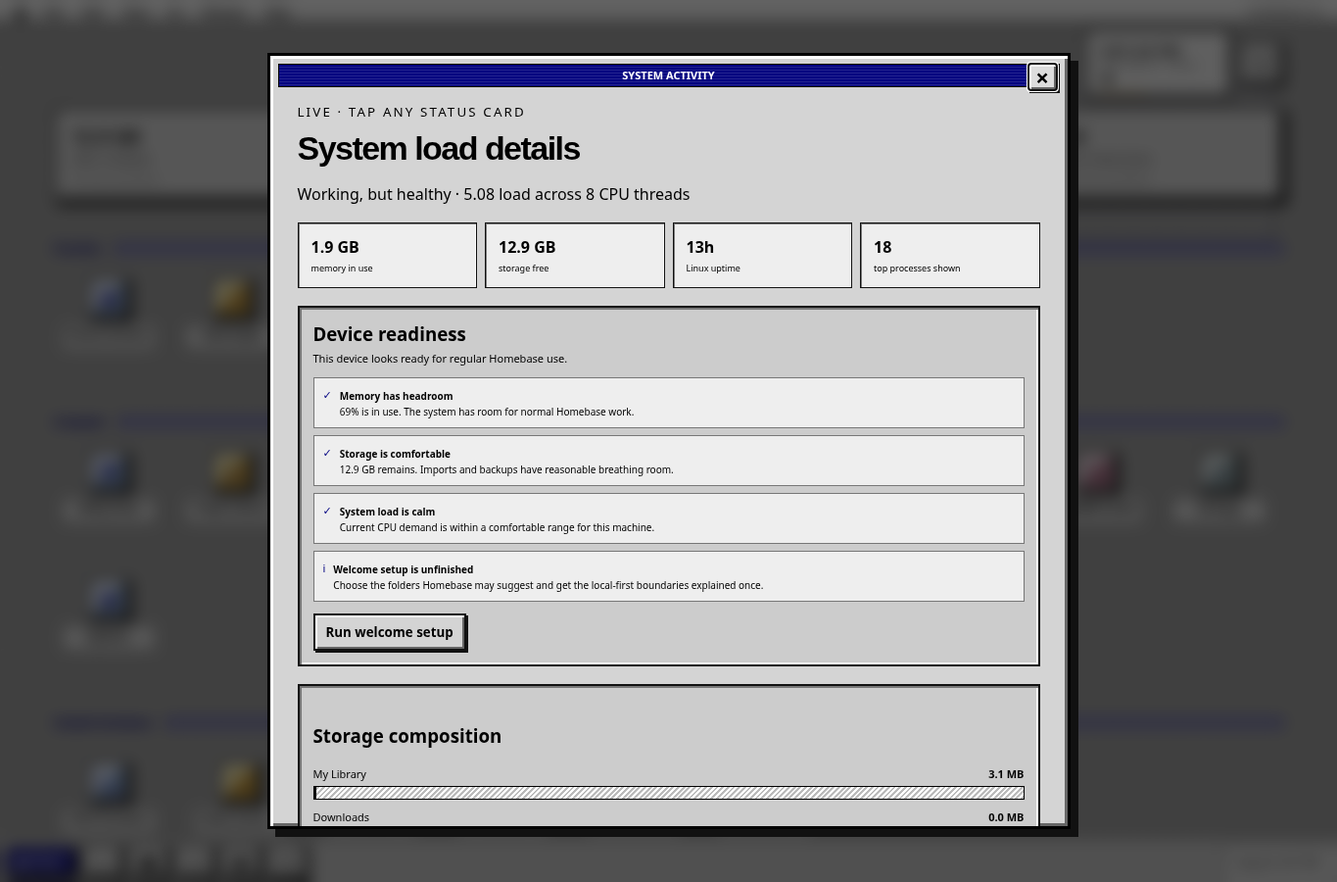
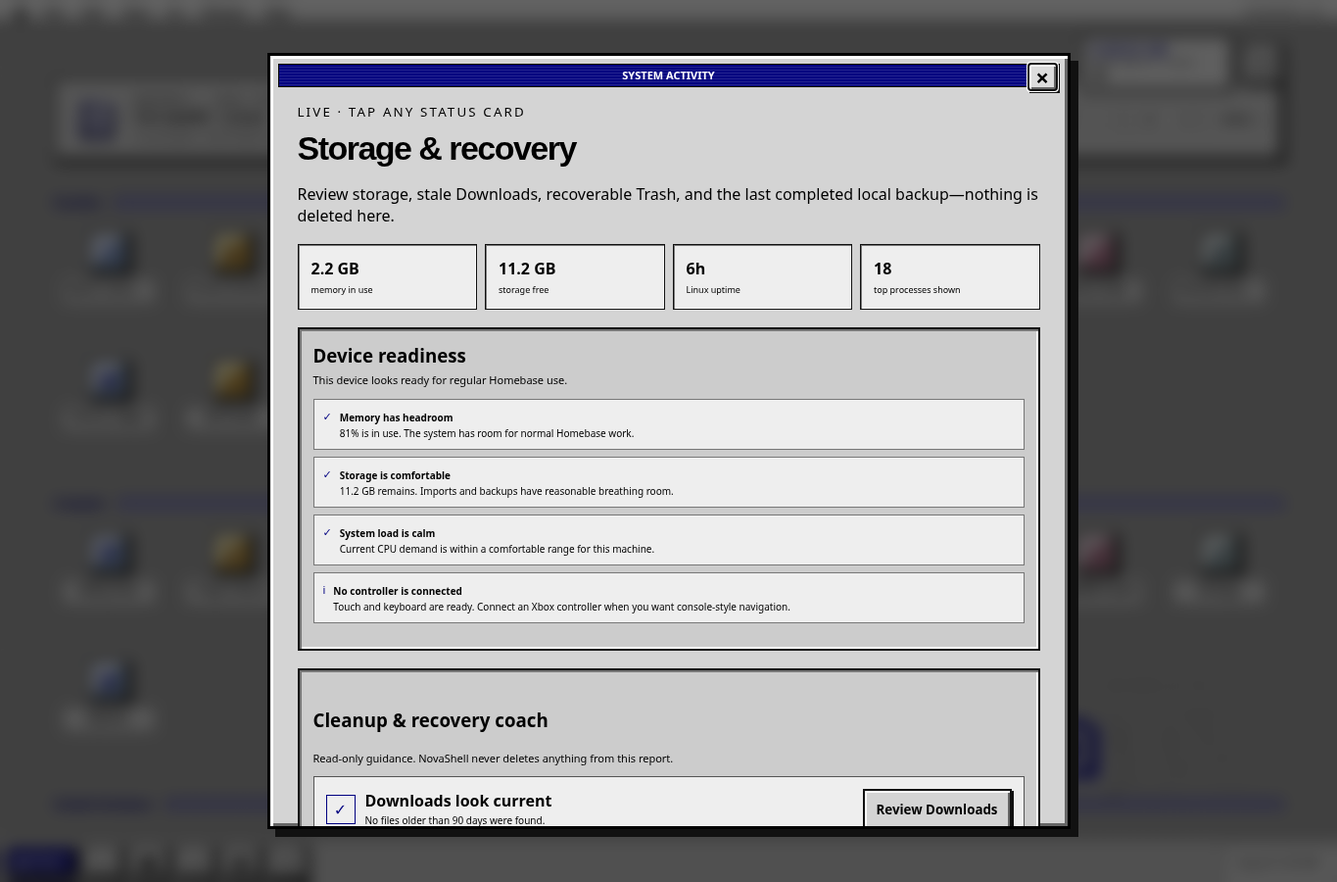
feat: ship recovery coach stable build

diff --git a/assets/scripts/homebase/system-insights.js b/assets/scripts/homebase/system-insights.js
@@ -1,4 +1,5 @@
 addEventListener('DOMContentLoaded', () => {
+  document.head.insertAdjacentHTML('beforeend', '<link rel="stylesheet" href="/assets/styles/homebase/system-recovery.css">');
   document.head.insertAdjacentHTML('beforeend', '<style>.status{grid-template-columns:repeat(5,minmax(0,1fr))!important}@media(max-width:820px){.status{grid-template-columns:repeat(3,minmax(0,1fr))!important}}@media(max-width:600px){.status{grid-template-columns:repeat(2,minmax(0,1fr))!important}}</style>');
   document.head.insertAdjacentHTML('beforeend', '<style>.metric:after{content:"TAP FOR LIVE DETAILS";display:block;margin-top:9px;color:rgb(var(--signal-alt-rgb));font-size:7px;letter-spacing:.12em}.live-facts{display:grid;grid-template-columns:repeat(4,1fr);gap:8px;margin:18px 0}.live-facts div{padding:13px;border:1px solid #ffffff18;border-radius:12px;background:#ffffff08}.live-facts b,.live-facts span{display:block}.live-facts span{margin-top:4px;color:#a8a8a8;font-size:9px}.readiness{padding:14px;margin:18px 0;border:1px solid #ffffff28;border-radius:13px;background:#0d1519}.readiness h3{margin:0 0 5px}.readiness>p{margin:0;color:#c6d4d9;font-size:11px}.readiness-list{display:grid;gap:7px;margin:12px 0}.readiness-list div{display:grid;grid-template-columns:auto 1fr;gap:8px;align-items:start;padding:9px;border:1px solid #ffffff18;border-radius:9px;background:#ffffff08;font-size:11px}.readiness-list i{font-style:normal;color:rgb(var(--signal-alt-rgb))}.readiness-list b,.readiness-list span{display:block}.readiness-list span{margin-top:2px;color:#a8a8a8;font-size:10px}.readiness-actions{display:flex;gap:7px;flex-wrap:wrap}.readiness-actions button{min-height:38px;padding:0 11px}.insight-list small{color:#777;font-size:8px}.explain{font-size:11px}html[data-theme="ultra-retro"] .readiness{border:2px inset #eee;border-radius:0;background:#fff;color:#111}html[data-theme="ultra-retro"] .readiness>p,html[data-theme="ultra-retro"] .readiness-list span{color:#111}html[data-theme="ultra-retro"] .readiness-list div{border:1px solid #777;border-radius:0;background:#eee}html[data-theme="ultra-retro"] .readiness-list i{color:#000080}@media(max-width:650px){.live-facts{grid-template-columns:1fr 1fr}}</style>');
   const status = document.querySelector('.status');
@@ -14,7 +15,7 @@ addEventListener('DOMContentLoaded', () => {
   const cards = [...document.querySelectorAll('.metric')];
   const dialog = document.createElement('dialog');
   dialog.className = 'insight-dialog';
-  dialog.innerHTML = '<button class="insight-x">×</button><small>LIVE · TAP ANY STATUS CARD</small><h2>System activity</h2><p id="insight-rating">Reading this Chromebook…</p><div id="live-facts" class="live-facts"></div><section id="readiness" class="readiness"><h3>Device readiness</h3><p>Turning local measurements into safe, useful next steps…</p></section><section><h3>Storage composition</h3><div id="composition" class="composition"></div></section><section><h3>Real running processes</h3><p class="explain">Sorted by CPU use. Read-only for touch safety.</p><div id="processes" class="insight-list skeleton-list"></div></section><section><h3>Largest personal files</h3><div id="largest" class="insight-list skeleton-list"></div></section>';
+  dialog.innerHTML = '<button class="insight-x">×</button><small>LIVE · TAP ANY STATUS CARD</small><h2>System activity</h2><p id="insight-rating">Reading this Chromebook…</p><div id="live-facts" class="live-facts"></div><section id="readiness" class="readiness"><h3>Device readiness</h3><p>Turning local measurements into safe, useful next steps…</p></section><section id="recovery" class="recovery-coach"><h3>Cleanup &amp; recovery coach</h3><p>Read-only guidance. NovaShell never deletes anything from this report.</p><div class="recovery-grid"></div></section><section id="storage-composition"><h3>Storage composition</h3><div id="composition" class="composition"></div></section><section id="running-processes"><h3>Real running processes</h3><p class="explain">Sorted by CPU use. Read-only for touch safety.</p><div id="processes" class="insight-list skeleton-list"></div></section><section id="largest-files"><h3>Largest personal files</h3><div id="largest" class="insight-list skeleton-list"></div></section>';
   document.body.appendChild(dialog);
   dialog.querySelector('.insight-x').onclick = () => dialog.close();
   dialog.addEventListener('click', event => {
@@ -54,12 +55,22 @@ addEventListener('DOMContentLoaded', () => {
     card.querySelector('.system-terminal-copy em').textContent=(setup.controllers||0)+' controller'+(setup.controllers===1?'':'s')+' · '+(setup.configured?'scan folders configured':'welcome setup still needs a folder choice')+' · live local readings';
     const stats=card.querySelectorAll('.system-terminal-stats i');stats[0].textContent='MEM '+used+'%';stats[1].textContent='DISK '+free+'G';stats[2].textContent='LOAD '+load.toFixed(2)+'/'+cpus;
   }
+  function paintRecovery(data) {
+    const recovery=data.recovery||{},stale=recovery.stale_downloads||{},trash=recovery.trash||{},backup=recovery.backup||{},grid=dialog.querySelector('.recovery-grid');
+    const last=backup.last_export?new Date(backup.last_export*1000):null,days=last?Math.floor((Date.now()-last.getTime())/86400000):null;
+    const cards=[
+      {mark:stale.count?'!':'✓',title:stale.count?stale.count+' older download'+(stale.count===1?'':'s'):'Downloads look current',detail:stale.count?human(stale.bytes)+' has not changed in '+stale.age_days+'+ days. Review it before removing anything.':'No files older than '+(stale.age_days||90)+' days were found.',label:'Review Downloads',url:'/pages/files.html?path=Downloads'},
+      {mark:trash.count?'↶':'✓',title:trash.count?trash.count+' recoverable Trash item'+(trash.count===1?'':'s'):'Trash is empty',detail:trash.count?human(trash.bytes)+' remains recoverable. Review it in Library; this coach never empties Trash.':'There is nothing waiting in the local Trash folder.',label:'Review Trash',url:'/pages/files.html?path=.local%2Fshare%2FTrash%2Ffiles'},
+      {mark:last&&days<30?'✓':'!',title:last?'Last backup '+(days===0?'today':days+'d ago'):'No NovaShell backup recorded',detail:last?human(backup.bytes)+' · '+(backup.areas.length?backup.areas.join(', '):'preferences only')+'. This records a completed local download, not an upload.':'Export selected data to create a portable local archive. Credentials remain excluded.',label:'Backup settings',url:'/pages/settings.html?panel=backup'}
+    ];
+    grid.replaceChildren(...cards.map(item=>{const card=document.createElement('article'),mark=document.createElement('i'),copy=document.createElement('span'),title=document.createElement('b'),detail=document.createElement('span'),button=document.createElement('button');mark.textContent=item.mark;title.textContent=item.title;detail.textContent=item.detail;button.type='button';button.textContent=item.label;button.onclick=()=>go(item.url);copy.append(title,detail);card.append(mark,copy,button);return card}));
+  }
   async function refresh() {
     const [data, setup] = await Promise.all([fetch('/api/insights', {cache: 'no-store'}).then(r => r.json()), fetch('/api/setup/status', {cache: 'no-store'}).then(r => r.ok ? r.json() : ({})).catch(() => ({}))]);
     const uptimeCard=document.querySelector('#uptime-metric b'),processCard=document.querySelector('#process-metric b');if(uptimeCard)uptimeCard.textContent=duration(data.uptime_seconds);if(processCard)processCard.textContent=data.processes.length;
     const load = data.load[0];
     const rating = load < data.cpu_count * .55 ? 'Running comfortably' : load < data.cpu_count ? 'Working, but healthy' : 'Under heavy load';
-    const view=Number(dialog.dataset.view||2);dialog.querySelector('#insight-rating').textContent = view===0?'Storage is split by Homebase areas; large-file details are shown below.':view===1?'Memory usage is live; this view focuses on the processes using resources.':rating + ' · ' + load.toFixed(2) + ' load across ' + data.cpu_count + ' CPU threads';
+    const view=Number(dialog.dataset.view||2);dialog.querySelector('#insight-rating').textContent = view===0?'Review storage, stale Downloads, recoverable Trash, and the last completed local backup—nothing is deleted here.':view===1?'Memory usage is live; this view focuses on the processes using resources.':rating + ' · ' + load.toFixed(2) + ' load across ' + data.cpu_count + ' CPU threads';
     const usedMemory = data.memory.MemTotal - data.memory.MemAvailable;
     dialog.querySelector('#live-facts').innerHTML = '<div><b>' + human(usedMemory) + '</b><span>memory in use</span></div><div><b>' + human(data.disk.free) + '</b><span>storage free</span></div><div><b>' + duration(data.uptime_seconds) + '</b><span>Linux uptime</span></div><div><b>' + data.processes.length + '</b><span>top processes shown</span></div>';
     const total = Object.values(data.composition).reduce((a,b) => a + b, 0) || 1;
@@ -71,9 +82,10 @@ addEventListener('DOMContentLoaded', () => {
     largest.classList.remove('skeleton-list');
     largest.innerHTML = data.largest.map(file => '<div><b>' + file.name + '</b><span>' + file.path + ' · ' + human(file.bytes) + '</span></div>').join('') || '<p>No personal files yet.</p>';
     paintReadiness(data, setup);
+    paintRecovery(data);
     paintSystemCard(data, setup);
   }
-  async function open(index = 2) { const views=[['Storage details','Storage composition and the largest files taking space on this device.'],['Memory details','Live memory pressure and the processes using the most resources.'],['System load details','Live CPU load, uptime, and the busiest current processes.']];const view=views[index]||views[2];dialog.querySelector('h2').textContent=view[0];dialog.querySelector('#insight-rating').textContent=view[1];dialog.dataset.view=index;dialog.showModal();await refresh();const sections=[...dialog.querySelectorAll('section')];sections[0].hidden=index===1;sections[1].hidden=index===0;sections[2].hidden=index!==0; }
+  async function open(index = 2) { const views=[['Storage & recovery','Storage composition, larger files, recoverable Trash, stale Downloads, and backup status.'],['Memory details','Live memory pressure and the processes using the most resources.'],['System load details','Live CPU load, uptime, and the busiest current processes.']];const view=views[index]||views[2];dialog.querySelector('h2').textContent=view[0];dialog.querySelector('#insight-rating').textContent=view[1];dialog.dataset.view=index;dialog.showModal();await refresh();const storage=index===0,memory=index===1;dialog.querySelector('#readiness').hidden=memory;dialog.querySelector('#recovery').hidden=!storage;dialog.querySelector('#storage-composition').hidden=!storage;dialog.querySelector('#running-processes').hidden=storage;dialog.querySelector('#largest-files').hidden=!storage; }
   cards.forEach(card => {
     card.tabIndex = 0;
     card.setAttribute('role', 'button');
@@ -82,5 +94,7 @@ addEventListener('DOMContentLoaded', () => {
     card.onkeydown = event => (event.key === 'Enter' || event.key === ' ') && open(index);
   });
   refresh().catch(()=>{});
-  if (new URLSearchParams(location.search).get('capture') === 'system') setTimeout(() => open(2), 180);
+  const captureView=new URLSearchParams(location.search).get('capture');
+  if (captureView === 'system') setTimeout(() => open(2), 180);
+  if (captureView === 'recovery') setTimeout(() => open(0), 180);
 });

diff --git a/sw.js b/sw.js
@@ -1,4 +1,4 @@
-const CACHE='homebase-v144';
+const CACHE='homebase-v145';
 const SHELL=[
   '/', '/index.html', '/offline.html', '/manifest.webmanifest', '/assets/icons/homebase-icon.svg', '/user-apps/wellness/reset-station/index.html', '/user-apps/wellness/reset-station/app.json', '/user-apps/wellness/reset-station/app.css', '/user-apps/wellness/reset-station/app.js',
   '/pages/arcade.html', '/pages/discover.html', '/pages/files.html', '/pages/apps.html', '/pages/source-connection.html',
@@ -7,7 +7,7 @@ const SHELL=[
   '/assets/styles/homebase/visual-deck.css', '/assets/styles/homebase/shell.css', '/assets/styles/homebase/first-run.css', '/assets/styles/homebase/first-run-shortcuts.css', '/assets/styles/homebase/command-palette.css',
   '/assets/styles/homebase/tiles.css', '/assets/styles/homebase/clock.css',
   '/assets/styles/homebase/gestures.css', '/assets/styles/homebase/indicators.css',
-  '/assets/styles/homebase/system-insights.css', '/assets/styles/homebase/neofetch-ambient.css','/assets/styles/homebase/neofetch-cobalt.css','/assets/styles/homebase/neofetch-retro-readout.css','/assets/styles/homebase/relay-live-build.css','/assets/styles/homebase/project-board-interaction.css','/assets/styles/homebase/relay-free-routes.css','/assets/styles/homebase/window-layering.css','/assets/styles/homebase/about-overview.css','/modules/radio-orbit/theme-inherit-surfaces.css','/assets/styles/shared/retro-window-standard.css', '/assets/styles/homebase/scroll-motion.css',
+  '/assets/styles/homebase/system-insights.css', '/assets/styles/homebase/system-recovery.css', '/assets/styles/homebase/neofetch-ambient.css','/assets/styles/homebase/neofetch-cobalt.css','/assets/styles/homebase/neofetch-retro-readout.css','/assets/styles/homebase/relay-live-build.css','/assets/styles/homebase/project-board-interaction.css','/assets/styles/homebase/relay-free-routes.css','/assets/styles/homebase/window-layering.css','/assets/styles/homebase/about-overview.css','/modules/radio-orbit/theme-inherit-surfaces.css','/assets/styles/shared/retro-window-standard.css', '/assets/styles/homebase/scroll-motion.css',
   '/assets/styles/homebase/themes.css', '/assets/styles/homebase/liquid-modern.css', '/assets/styles/homebase/mini-player.css',
   '/assets/styles/homebase/tile-layout.css', '/assets/styles/homebase/glass.css',
   '/assets/styles/homebase/header-actions.css', '/assets/styles/homebase/orbit-performance.css',

diff --git a/assets/styles/homebase/system-recovery.css b/assets/styles/homebase/system-recovery.css
@@ -1,0 +1,13 @@
+.recovery-coach > p { color: #b9c4c9; font-size: 11px; }
+.recovery-grid { display: grid; gap: 8px; }
+.recovery-grid article { display: grid; grid-template-columns: auto minmax(0, 1fr) auto; gap: 10px; align-items: center; padding: 12px; border: 1px solid #ffffff1c; border-radius: 11px; background: #ffffff08; }
+.recovery-grid article > i { display: grid; place-items: center; width: 30px; height: 30px; border: 1px solid rgb(var(--signal-alt-rgb)); border-radius: 50%; color: rgb(var(--signal-alt-rgb)); font-style: normal; }
+.recovery-grid article span, .recovery-grid article b { display: block; }
+.recovery-grid article span span { margin-top: 3px; color: #aeb9bd; font-size: 10px; line-height: 1.35; }
+.recovery-grid button { min-height: 42px; padding: 0 12px; cursor: pointer; }
+html[data-theme="ultra-retro"] .recovery-coach { padding: 12px; border: 2px inset #eee; background: #d4d4d4; color: #111; }
+html[data-theme="ultra-retro"] .recovery-coach > p, html[data-theme="ultra-retro"] .recovery-grid article span span { color: #222; }
+html[data-theme="ultra-retro"] .recovery-grid article { border: 1px solid #555; border-radius: 0; background: #eee; }
+html[data-theme="ultra-retro"] .recovery-grid article > i { border: 1px solid #000080; border-radius: 0; color: #000080; }
+html[data-theme="ultra-retro"] .recovery-grid button { border: 2px outset #eee; border-radius: 0; background: #d4d4d4; color: #111; }
+@media (max-width: 650px) { .recovery-grid article { grid-template-columns: auto 1fr; } .recovery-grid button { grid-column: 2; } }

diff --git a/server.py b/server.py
@@ -48,6 +48,7 @@ INSIGHT_CACHE = {"time": 0, "data": None}
 JOBS = {}
 JOBS_LOCK = threading.Lock()
 PROJECT_FEED_FILE = ROOT / "local" / "project-feed.json"
+BACKUP_STATUS_FILE = ROOT / "local" / "backup-status.json"
 PROJECT_FEED_LOCK = threading.RLock()
 RELAY_AGENT_RUNS = {}
 RELAY_AGENT_LOCK = threading.RLock()
@@ -546,6 +547,8 @@ def system_insights():
     groups = {"My Library": HOME_ROOT / "My Library", "Downloads": HOME_ROOT / "Downloads",
               "Games": ROOT / "roms", "Artwork": ROOT / "covers", "Imports": ROOT / "imports"}
     composition, largest = {}, []
+    stale_downloads = {"count": 0, "bytes": 0, "age_days": 90}
+    stale_before = time.time() - stale_downloads["age_days"] * 86400
     for label, folder in groups.items():
         total = 0
         if folder.exists():
@@ -554,10 +557,25 @@ def system_insights():
                 for name in files:
                     path = Path(base) / name
                     try:
-                        amount = path.stat().st_size; total += amount
+                        details = path.stat(); amount = details.st_size; total += amount
                         largest.append({"name": name, "path": str(path.relative_to(HOME_ROOT)), "bytes": amount})
+                        if label == "Downloads" and details.st_mtime < stale_before:
+                            stale_downloads["count"] += 1; stale_downloads["bytes"] += amount
                     except OSError: pass
         composition[label] = total
+    trash = {"count": 0, "bytes": 0}
+    trash_root = HOME_ROOT / ".local" / "share" / "Trash" / "files"
+    if trash_root.exists():
+        for base, dirs, files in os.walk(trash_root):
+            dirs[:] = [name for name in dirs if not name.startswith(".")]
+            for name in files:
+                try: trash["count"] += 1; trash["bytes"] += (Path(base) / name).stat().st_size
+                except OSError: pass
+    backup = {"last_export": None, "areas": [], "bytes": 0}
+    try:
+        saved_backup = json.loads(BACKUP_STATUS_FILE.read_text(encoding="utf-8"))
+        backup.update({"last_export": int(saved_backup.get("last_export")), "areas": [key for key in saved_backup.get("areas", []) if key in BACKUP_AREAS], "bytes": int(saved_backup.get("bytes", 0))})
+    except (OSError, ValueError, TypeError): pass
     output = subprocess.run(
         ["ps", "-eo", "pid=,comm=,%cpu=,%mem=,rss=,etimes=", "--sort=-%cpu"],
         capture_output=True, text=True, timeout=5
@@ -576,7 +594,8 @@ def system_insights():
     data = {"composition": composition, "largest": sorted(largest, key=lambda item:item["bytes"], reverse=True)[:16],
             "processes": processes, "cpu_count": os.cpu_count() or 1, "load": list(os.getloadavg()),
             "memory": memory, "disk": {"total": disk.total, "used": disk.used, "free": disk.free},
-            "uptime_seconds": int(float(Path("/proc/uptime").read_text().split()[0]))}
+            "uptime_seconds": int(float(Path("/proc/uptime").read_text().split()[0])),
+            "recovery": {"stale_downloads": stale_downloads, "trash": trash, "backup": backup}}
     INSIGHT_CACHE.update(time=time.time(), data=data); return data
 
 def safe_home_path(raw=""):
@@ -982,48 +1001,6 @@ class PocketArchiveHandler(SimpleHTTPRequestHandler):
                              for app in installed_apps().values()])
             return
         route = urllib.parse.urlsplit(self.path)
-        if route.path == "/api/backup/export":
-            length=min(int(self.headers.get("Content-Length","0")),5*1024*1024)
-            try: payload=json.loads(self.rfile.read(length) or b"{}")
-            except ValueError: self._json(400,{"error":"invalid settings"});return
-            selected=[key for key in payload.get("areas",[]) if key in BACKUP_AREAS];memory=io.BytesIO()
-            with zipfile.ZipFile(memory,"w",zipfile.ZIP_DEFLATED,compresslevel=5) as archive:
-                archive.writestr("homebase-backup.json",json.dumps({"format":1,"created":int(time.time()),"areas":selected,"preferences":payload.get("preferences",{}),"installed_apps":[{"id":app["id"],"name":app["name"]} for app in installed_apps().values()]},indent=2))
-                for key in selected:
-                    folder=BACKUP_AREAS[key]
-                    if folder.exists():
-                        for path in folder.rglob("*"):
-                            if path.is_file(): archive.write(path,"data/"+key+"/"+str(path.relative_to(folder)))
-            body=memory.getvalue();self.send_response(200);self.send_header("Content-Type","application/zip");self.send_header("Content-Disposition",'attachment; filename="homebase-backup.zip"');self.send_header("Content-Length",str(len(body)));self.end_headers();self.wfile.write(body);return
-        if route.path == "/api/backup/inspect":
-            length=min(int(self.headers.get("Content-Length","0")),16*1024**3)
-            try:
-                with zipfile.ZipFile(io.BytesIO(self.rfile.read(length))) as archive:
-                    manifest=json.loads(archive.read("homebase-backup.json"))
-                self._json(200,{"areas":manifest.get("areas",[]),"created":manifest.get("created"),"installed_apps":manifest.get("installed_apps",[]),"has_preferences":bool(manifest.get("preferences"))})
-            except (zipfile.BadZipFile,KeyError,ValueError,OSError) as error:self._json(400,{"error":str(error)})
-            return
-        if route.path == "/api/backup/import":
-            length=min(int(self.headers.get("Content-Length","0")),16*1024**3)
-            try:
-                with zipfile.ZipFile(io.BytesIO(self.rfile.read(length))) as archive:
-                    manifest=json.loads(archive.read("homebase-backup.json"));restored=[];skipped=[]
-                    requested={key for key in self.headers.get("X-Homebase-Areas","").split(",") if key};replace=self.headers.get("X-Homebase-Conflict")=="replace"
-                    for key in manifest.get("areas",[]):
-                        if key not in BACKUP_AREAS or requested and key not in requested: continue
-                        destination=BACKUP_AREAS[key];destination.mkdir(parents=True,exist_ok=True);prefix="data/"+key+"/"
-                        for name in archive.namelist():
-                            relative=Path(name[len(prefix):]) if name.startswith(prefix) else None
-                            if not relative or name.endswith("/") or relative.is_absolute() or ".." in relative.parts: continue
-                            target=destination/relative
-                            if target.exists() and not replace: skipped.append(str(relative));continue
-                            target.parent.mkdir(parents=True,exist_ok=True)
-                            with archive.open(name) as source,target.open("wb") as output: shutil.copyfileobj(source,output)
-                        restored.append(key)
-                preferences=manifest.get("preferences",{}) if not requested or "preferences" in requested else {}
-                self._json(200,{"restored":restored,"skipped":len(skipped),"preferences":preferences,"installed_apps":manifest.get("installed_apps",[])})
-            except (zipfile.BadZipFile,KeyError,ValueError,OSError) as error:self._json(400,{"error":str(error)})
-            return
         if route.path == "/api/files":
             raw = urllib.parse.parse_qs(route.query).get("path", ["Desktop"])[0]
             folder = safe_home_path(raw)
@@ -1375,7 +1352,7 @@ class PocketArchiveHandler(SimpleHTTPRequestHandler):
                 for key in selected:
                     for path, relative in backup_files(key):
                         archive.write(path,"data/"+key+"/"+str(relative))
-            body=memory.getvalue();self.send_response(200);self.send_header("Content-Type","application/zip");self.send_header("Content-Disposition",'attachment; filename="homebase-backup.zip"');self.send_header("Content-Length",str(len(body)));self.end_headers();self.wfile.write(body);return
+            body=memory.getvalue();BACKUP_STATUS_FILE.parent.mkdir(parents=True,exist_ok=True);temporary=BACKUP_STATUS_FILE.with_suffix(".tmp");temporary.write_text(json.dumps({"last_export":int(time.time()),"areas":selected,"bytes":len(body)},indent=2),encoding="utf-8");os.chmod(temporary,0o600);temporary.replace(BACKUP_STATUS_FILE);INSIGHT_CACHE.update(time=0,data=None);self.send_response(200);self.send_header("Content-Type","application/zip");self.send_header("Content-Disposition",'attachment; filename="homebase-backup.zip"');self.send_header("Content-Length",str(len(body)));self.end_headers();self.wfile.write(body);return
         if route.path == "/api/backup/inspect":
             length=min(int(self.headers.get("Content-Length","0")),16*1024**3)
             try:

diff --git a/scripts/recovery-insight-test.py b/scripts/recovery-insight-test.py
@@ -1,0 +1,47 @@
+#!/usr/bin/env python3
+"""Deterministic contract test for the read-only cleanup/recovery report."""
+
+import json
+import os
+import sys
+import tempfile
+import time
+from pathlib import Path
+
+sys.path.insert(0, str(Path(__file__).resolve().parents[1]))
+import server
+
+
+with tempfile.TemporaryDirectory(prefix="novashell-recovery-") as folder:
+    root = Path(folder)
+    home = root / "home"
+    project = root / "project"
+    downloads = home / "Downloads"
+    trash = home / ".local" / "share" / "Trash" / "files"
+    downloads.mkdir(parents=True)
+    trash.mkdir(parents=True)
+    project.mkdir()
+
+    old_file = downloads / "old-download.bin"
+    old_file.write_bytes(b"o" * 32)
+    old_time = time.time() - 120 * 86400
+    os.utime(old_file, (old_time, old_time))
+    (downloads / "current-download.bin").write_bytes(b"n" * 16)
+    (trash / "recoverable.bin").write_bytes(b"t" * 24)
+
+    backup_status = project / "local" / "backup-status.json"
+    backup_status.parent.mkdir()
+    backup_status.write_text(json.dumps({"last_export": 1700000000, "areas": ["box", "invalid"], "bytes": 2048}), encoding="utf-8")
+
+    server.HOME_ROOT = home
+    server.ROOT = project
+    server.BACKUP_STATUS_FILE = backup_status
+    server.BACKUP_AREAS = {"box": home / "My Library"}
+    server.INSIGHT_CACHE = {"time": 0, "data": None}
+    report = server.system_insights()["recovery"]
+
+    assert report["stale_downloads"] == {"count": 1, "bytes": 32, "age_days": 90}
+    assert report["trash"] == {"count": 1, "bytes": 24}
+    assert report["backup"] == {"last_export": 1700000000, "areas": ["box"], "bytes": 2048}
+
+print("Recovery insight contract passed: stale Downloads, Trash, and backup status stay read-only and bounded.")

diff --git a/README.md b/README.md
@@ -107,7 +107,7 @@ This is not a replacement operating system. It is a fast console-like layer over
 |---|---|
 | ![Pocket Archive with intentionally pixelated local game artwork](media/pocket-archive.png) | ![Browse, Homebase’s retro internet-style discovery browser](media/rom-discovery.png) |
 
-Pocket Archive launches a locally installed EmulatorJS runtime for GBA, Game Boy, GBC, NES, SNES, Genesis, N64, and PlayStation files supplied by the user. Each game can have a detail sheet, swipeable gallery, Xbox controller diagram, save controls, performance profile, and fullscreen CRT presentation. Connected Xbox controllers are sorted into distinct EmulatorJS player slots with the complete face-button, D-pad, trigger, shoulder, stick-click, and analog-stick map. Known N64 versus games—and imported N64 games marked multiplayer—show a direct **2 players · versus** launch. A single-player title simply ignores the extra slot. In the library, Xbox **B** closes an open detail sheet before returning NovaShell; once a game is running, the emulator owns B normally.
+Pocket Archive launches a locally installed EmulatorJS runtime for GBA, Game Boy, GBC, NES, SNES, Genesis, N64, and PlayStation files supplied by the user. Each game can have a detail sheet, swipeable gallery, Xbox controller diagram, save controls, performance profile, and fullscreen CRT presentation. Connected Xbox controllers are sorted into distinct EmulatorJS player slots with the complete face-button, D-pad, trigger, shoulder, stick-click, and analog-stick map. Known N64 versus games—and imported N64 games marked multiplayer—show a direct two-player launch. It reads **2 pads ready** only when Chrome can see two distinct controllers; otherwise it asks the user to wake player two before launch. A single-player title simply ignores the extra slot. In the library, Xbox **B** closes an open detail sheet before returning NovaShell; once a game is running, the emulator owns B normally.
 
 The controller contract and a simulated two-pad assignment test run in the release audit. Real acceptance still requires two physical controllers on the target Chromebook: open the game’s own versus/player-select screen and verify each pad controls a different player. See the [Xbox controller smoke test](docs/HARDWARE_CONTROLLER_SMOKE.md).
 
@@ -224,7 +224,7 @@ Settings can export or merge independent data groups: My Library, user-provided 
 
 The README uses crisp current Settings captures. Pixel-mosaic treatment is reserved only for public game-shelf imagery that could expose local ROM covers or gameplay; it is a real low-resolution pixel mosaic, not a blur.
 
-Maintainers can run `./scripts/release-audit.sh` against a local NovaShell server before publishing. It checks core syntax, theme entry points, user-app registration, README media links, key routes, and that private runtime folders are not tracked. The separate controller smoke test still requires real hardware.
+Maintainers can run `./scripts/release-audit.sh` against a local NovaShell server before publishing. It checks core syntax, the isolated cleanup/recovery data contract, theme entry points, user-app registration, README media links, key routes, and that private runtime folders are not tracked. The separate controller smoke test still requires real hardware.
 
 EmulatorJS saves live in browser IndexedDB, so Homebase also includes a separate browser-save export/import tool for that protected data.
 
@@ -246,7 +246,7 @@ Cobalt + Radar is one compact optional modern view. It is kept as an alternative
 
 ### System insight and Homebase Control
 
-The dashboard begins with a compact local-system display rather than generic KPIs: OS and architecture, controller state, memory, storage, and load. Detail views add storage composition, large files, and active processes. Homebase Control exposes service health, controller detection, and protected native-save backups through a separate local helper.
+The dashboard begins with a compact local-system display rather than generic KPIs: OS and architecture, controller state, memory, storage, and load. Detail views add storage composition, large files, active processes, and a read-only **Cleanup & recovery coach**. The coach counts Downloads unchanged for 90 days, recoverable Trash contents, and the last completed selective backup; it exposes only totals and links to the existing review screen. It never deletes, empties Trash, or uploads anything. Homebase Control exposes service health, controller detection, and protected native-save backups through a separate local helper.
 
 ![NovaShell Device Readiness turns local measurements into safe next steps](media/system-readiness.png)
 

diff --git a/docs/SOURCE_INTAKE_REVIEW.md b/docs/SOURCE_INTAKE_REVIEW.md
@@ -30,6 +30,13 @@ NovaShell World may reuse the isolated client-side engine pattern and the upstre
 
 The FTP audit has been completed at metadata level: 120 top-level candidates and 20 manifest signals. No remote code, media, databases, uploads, logs, or credentials were copied. Candidate patterns were classified into audio/visual, map maker, media viewer, weather, knowledge, and workflow; any future migration requires an owner-selected project plus a content and licensing review before code moves.
 
+## Published clean rebuilds
+
+- `boredguy404/novashell-gallery` is a private standalone browser-picked image viewer. Its `v0.1.0` tag follows a static-reference, JavaScript, browser-launch, and sensitive-token review; it contains no audited source or media.
+- `boredguy404/novashell-maker-desk` is a private standalone 16 × 12 local tile sketchpad. Its `v0.1.0` tag follows a 192-cell browser-launch, static-reference, service-worker, and sensitive-token review; it contains no archived maps, characters, or data.
+
+Both repositories keep their own focused history and stable tags. Future extracted projects follow the same provenance/privacy/removal gate before they are called stable.
+
 ## Next audit: hosted server
 
 Open `/pages/source-connection.html` to save an SFTP or FTPS profile locally. The profile lives in `local/source-connection.json`, which is ignored by Git and owner-readable only. Saving does not connect. Once access is supplied, the audit will:
